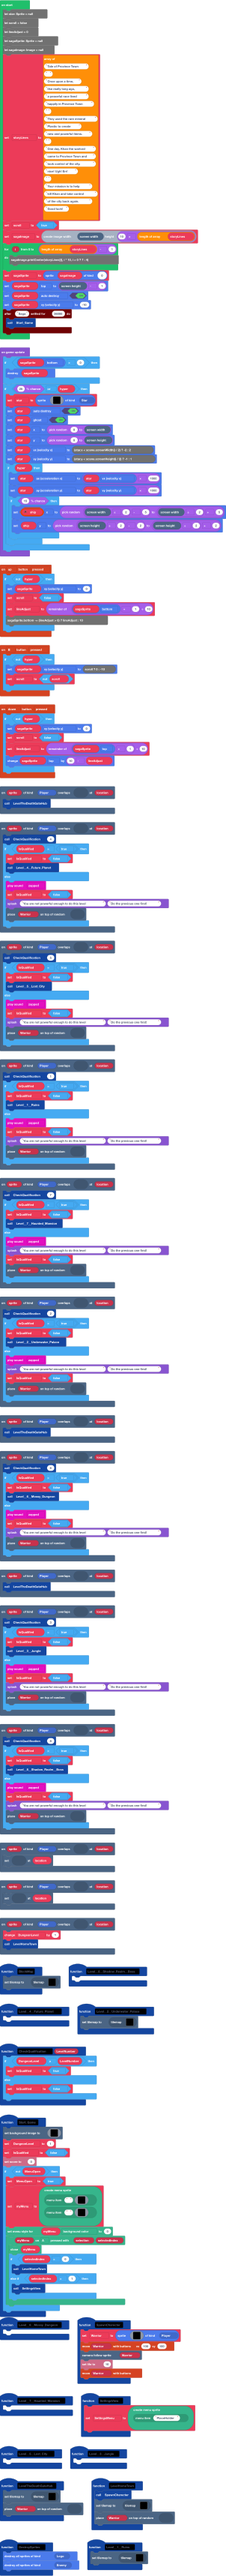
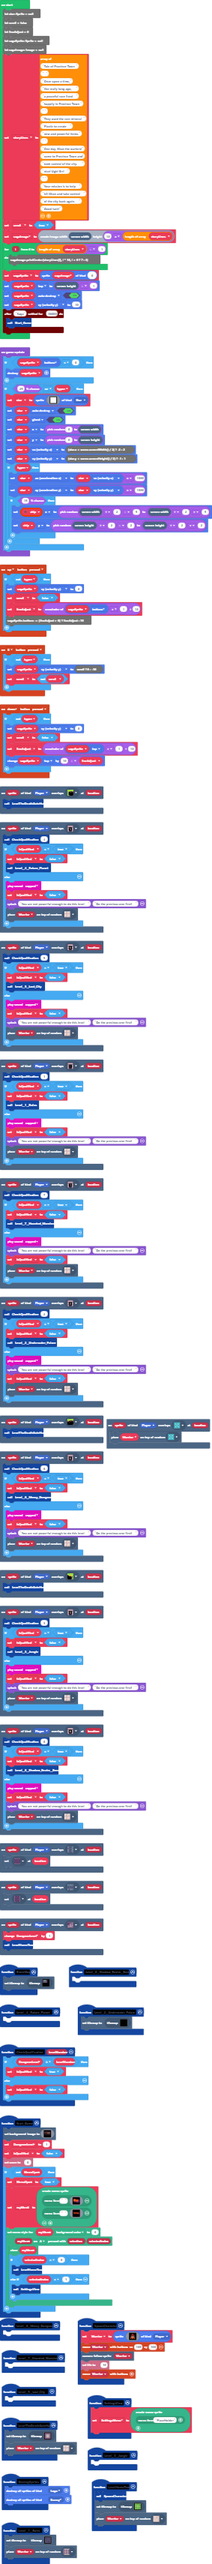
Update pxt.json, main.blocks, main.ts, tilemap.g.jres, tilemap.g.ts, images.g.jres, images.g.ts

diff --git a/tilemap.g.ts b/tilemap.g.ts
@@ -135,15 +135,7 @@ namespace myTiles {
     //% fixedInstance jres blockIdentity=images._tile
     export const tile67 = image.ofBuffer(hex``);
     //% fixedInstance jres blockIdentity=images._tile
-    export const tile62 = image.ofBuffer(hex``);
-    //% fixedInstance jres blockIdentity=images._tile
-    export const tile68 = image.ofBuffer(hex``);
-    //% fixedInstance jres blockIdentity=images._tile
-    export const tile69 = image.ofBuffer(hex``);
-    //% fixedInstance jres blockIdentity=images._tile
-    export const tile70 = image.ofBuffer(hex``);
-    //% fixedInstance jres blockIdentity=images._tile
-    export const tile71 = image.ofBuffer(hex``);
+    export const tile72 = image.ofBuffer(hex``);
 
     helpers._registerFactory("tilemap", function(name: string) {
         switch(helpers.stringTrim(name)) {
@@ -380,30 +372,6 @@ namespace myTiles {
 . . . . . . . . . . . . . . . . 
 . . . . . . . . . . . . . . . . 
 `, [myTiles.transparency16], TileScale.Sixteen);
-            case "level10":
[1 lines of base64/hex data omitted]
-222222222222222222222
-2.......22222.......2
-2.2...2.......22222.2
-2.2...222222222...2.2
-2.2...2..........22.2
-2.2...2....2........2
-2.222.2....2222222..2
-2...2.2..........2..2
-222.2.2222222222.2222
-....2..........2.....
-222.22222222222222222
-2...2....2..........2
-2.222.22.2.22222222.2
-2.2....2.2........2.2
-2.2.2..2.2........2.2
-2.2222.2.2........222
-2.2....2.2..........2
-2.2....2.2........2.2
-2.2222.2.2222222222.2
-2......2............2
-222222222222222222222
-`, [myTiles.transparency16,myTiles.tile15,myTiles.tile16,myTiles.tile17,myTiles.tile18,myTiles.tile19,myTiles.tile20,sprites.dungeon.stairEast,myTiles.tile29,myTiles.tile38,myTiles.tile40,myTiles.tile25,myTiles.tile26,myTiles.tile27,myTiles.tile28,myTiles.tile30,sprites.dungeon.darkGroundCenter,myTiles.tile39,myTiles.tile41,sprites.dungeon.darkGroundNorthEast0,sprites.dungeon.darkGroundNorthWest0,sprites.dungeon.darkGroundSouthWest0,sprites.dungeon.darkGroundNorth,sprites.dungeon.darkGroundSouth,myTiles.tile42,myTiles.tile44,myTiles.tile45,myTiles.tile36,sprites.dungeon.darkGroundSouthEast0,sprites.dungeon.darkGroundWest,sprites.dungeon.darkGroundEast,sprites.dungeon.collectibleInsignia,myTiles.tile32,myTiles.tile46,myTiles.tile47,sprites.dungeon.darkGroundSouthEast1,myTiles.tile48,myTiles.tile49,myTiles.tile43,myTiles.tile37,myTiles.tile50,myTiles.tile51], TileScale.Sixteen);
             case "level16":
             case "level16":return tiles.createTilemap(hex`1000100000000000000000000000000000000000000000000000000000000000000000000000000000000000000000000000000000000000000000000000000000000000000000000000000000000000000000000000000000000000000000000000000000000000000000000000000000000000000000000000000000000000000000000000000000000000000000000000000000000000000000000000000000000000000000000000000000000000000000000000000000000000000000000000000000000000000000000000000000000000000000000000000000000000000000000000000000000000000000000000000000000000000000000000000000000000`, img`
 . . . . . . . . . . . . . . . . 
@@ -508,8 +476,70 @@ namespace myTiles {
 .........................
 .........................
 `, [myTiles.transparency16,myTiles.tile53,myTiles.tile54], TileScale.Sixteen);
-            case "level1":
[1 lines of base64/hex data omitted]
+            case "level21":
+            case "level21":return tiles.createTilemap(hex`1000100000000000000000000000000000000000000000000000000000000000000000000000000000000000000000000000000000000000000000000000000000000000000000000000000000000000000000000000000000000000000000000000000000000000000000000000000000000000000000000000000000000000000000000000000000000000000000000000000000000000000000000000000000000000000000000000000000000000000000000000000000000000000000000000000000000000000000000000000000000000000000000000000000000000000000000000000000000000000000000000000000000000000000000000000000000000`, img`
+. . . . . . . . . . . . . . . . 
+. . . . . . . . . . . . . . . . 
+. . . . . . . . . . . . . . . . 
+. . . . . . . . . . . . . . . . 
+. . . . . . . . . . . . . . . . 
+. . . . . . . . . . . . . . . . 
+. . . . . . . . . . . . . . . . 
+. . . . . . . . . . . . . . . . 
+. . . . . . . . . . . . . . . . 
+. . . . . . . . . . . . . . . . 
+. . . . . . . . . . . . . . . . 
+. . . . . . . . . . . . . . . . 
+. . . . . . . . . . . . . . . . 
+. . . . . . . . . . . . . . . . 
+. . . . . . . . . . . . . . . . 
+. . . . . . . . . . . . . . . . 
+`, [myTiles.transparency16], TileScale.Sixteen);
+            case "level8":
[1 lines of base64/hex data omitted]
+. . . . . . . . . . . . . . . . 
+. . . . . . . . . . . . . . . . 
+. . . . . . . . . . . . . . . . 
+. . . . . . . . . . . . . . . . 
+. . . . . . . . . . . . . . . . 
+. . . . . . . . . . . . . . . . 
+. . . . . . . . . . . . . . . . 
+. . . . . . . . . . . . . . . . 
+. . . . . . . . . . . . . . . . 
+. . . . . . . . . . . . . . . . 
+. . . . . . . . . . . . . . . . 
+. . . . . . . . . . . . . . . . 
+. . . . . . . . . . . . . . . . 
+. . . . . . . . . . . . . . . . 
+. . . . . . . . . . . . . . . . 
+. . . . . . . . . . . . . . . . 
+`, [myTiles.transparency16,myTiles.tile13,myTiles.tile14,myTiles.tile15,myTiles.tile16,myTiles.tile17,myTiles.tile18,myTiles.tile19,myTiles.tile20,myTiles.tile21,myTiles.tile22,myTiles.tile23,myTiles.tile24,myTiles.tile25,myTiles.tile26,myTiles.tile27,myTiles.tile28,myTiles.tile29,myTiles.tile30,myTiles.tile53,myTiles.tile54,myTiles.tile52,myTiles.tile58,myTiles.tile59,myTiles.tile60], TileScale.Sixteen);
+            case "Tilemap_Ruins-Lvl1":
[1 lines of base64/hex data omitted]
+222222222222222222222
+2.......22222.......2
+2.2...2.......22222.2
+2.2...222222222...2.2
+2.2...2..........22.2
+2.2...2....2........2
+2.222.2....2222222..2
+2...2.2..........2..2
+222.2.2222222222.2222
+....2..........2.....
+222.22222222222222222
+2...2....2..........2
+2.222.22.2.22222222.2
+2.2....2.2........2.2
+2.2.2..2.2........2.2
+2.2222.2.2........222
+2.2....2.2..........2
+2.2....2.2........2.2
+2.2222.2.2222222222.2
+2......2............2
+222222222222222222222
+`, [myTiles.transparency16,myTiles.tile15,myTiles.tile16,myTiles.tile17,myTiles.tile18,myTiles.tile19,myTiles.tile20,sprites.dungeon.stairEast,myTiles.tile29,myTiles.tile38,myTiles.tile40,myTiles.tile25,myTiles.tile26,myTiles.tile27,myTiles.tile28,myTiles.tile30,sprites.dungeon.darkGroundCenter,myTiles.tile39,myTiles.tile41,sprites.dungeon.darkGroundNorthEast0,sprites.dungeon.darkGroundNorthWest0,sprites.dungeon.darkGroundSouthWest0,sprites.dungeon.darkGroundNorth,sprites.dungeon.darkGroundSouth,myTiles.tile42,myTiles.tile44,myTiles.tile45,myTiles.tile36,sprites.dungeon.darkGroundSouthEast0,sprites.dungeon.darkGroundWest,sprites.dungeon.darkGroundEast,sprites.dungeon.collectibleInsignia,myTiles.tile32,myTiles.tile46,myTiles.tile47,sprites.dungeon.darkGroundSouthEast1,myTiles.tile48,myTiles.tile49,myTiles.tile43,myTiles.tile37,myTiles.tile50,myTiles.tile51,myTiles.tile72], TileScale.Sixteen);
+            case "Tilemap_Hub":
[1 lines of base64/hex data omitted]
 . . . . . . . . . . . . . . . . . 
 . . . . . . . . . . . . . . . . . 
 . 2 2 . . . . . . . . . . 2 2 . . 
@@ -527,26 +557,7 @@ namespace myTiles {
 . . . . . . . . . . . 2 2 . . . . 
 . . . . . . . . . . . . . . . . . 
 . . . . . . . . . . . . . . . . . 
-`, [myTiles.transparency16,sprites.castle.tileGrass2,sprites.castle.tileGrass1,myTiles.tile3,myTiles.tile4,myTiles.tile2,sprites.castle.tilePath5,sprites.castle.tileGrass3,myTiles.tile55,myTiles.tile56,myTiles.tile57,sprites.castle.tilePath3,sprites.castle.tilePath1,sprites.castle.tilePath7,sprites.castle.tilePath9,myTiles.tile58,myTiles.tile63,myTiles.tile64,myTiles.tile65,myTiles.tile66,myTiles.tile67], TileScale.Sixteen);
-            case "level8":
[1 lines of base64/hex data omitted]
-. . . . . . . . . . . . . . . . 
-. . . . . . . . . . . . . . . . 
-. . . . . . . . . . . . . . . . 
-. . . . . . . . . . . . . . . . 
-. . . . . . . . . . . . . . . . 
-. . . . . . . . . . . . . . . . 
-. . . . . . . . . . . . . . . . 
-. . . . . . . . . . . . . . . . 
-. . . . . . . . . . . . . . . . 
-. . . . . . . . . . . . . . . . 
-. . . . . . . . . . . . . . . . 
-. . . . . . . . . . . . . . . . 
-. . . . . . . . . . . . . . . . 
-. . . . . . . . . . . . . . . . 
-. . . . . . . . . . . . . . . . 
-. . . . . . . . . . . . . . . . 
-`, [myTiles.transparency16,myTiles.tile13,myTiles.tile14,myTiles.tile15,myTiles.tile16,myTiles.tile17,myTiles.tile18,myTiles.tile19,myTiles.tile20,myTiles.tile21,myTiles.tile22,myTiles.tile23,myTiles.tile24,myTiles.tile25,myTiles.tile26,myTiles.tile27,myTiles.tile28,myTiles.tile29,myTiles.tile30,myTiles.tile53,myTiles.tile54,myTiles.tile52,myTiles.tile58,myTiles.tile59,myTiles.tile60,myTiles.tile61,myTiles.tile62,myTiles.tile68,myTiles.tile69,myTiles.tile70,myTiles.tile71], TileScale.Sixteen);
+`, [myTiles.transparency16,sprites.castle.tileGrass2,sprites.castle.tileGrass1,myTiles.tile3,myTiles.tile4,myTiles.tile2,sprites.castle.tilePath5,sprites.castle.tileGrass3,myTiles.tile55,myTiles.tile56,myTiles.tile57,sprites.castle.tilePath3,sprites.castle.tilePath1,sprites.castle.tilePath7,sprites.castle.tilePath9,myTiles.tile63,myTiles.tile64,myTiles.tile65,myTiles.tile66,myTiles.tile67], TileScale.Sixteen);
         }
         return null;
     })
@@ -686,16 +697,8 @@ namespace myTiles {
             case "tile66":return tile66;
             case "myTile44":
             case "tile67":return tile67;
-            case "myTile39":
-            case "tile62":return tile62;
-            case "myTile45":
-            case "tile68":return tile68;
-            case "myTile46":
-            case "tile69":return tile69;
-            case "myTile47":
-            case "tile70":return tile70;
-            case "myTile48":
-            case "tile71":return tile71;
+            case "Tiles_TeleportReceiver":
+            case "tile72":return tile72;
         }
         return null;
     })

diff --git a/main.ts b/main.ts
@@ -269,7 +269,7 @@ function Level__8__Shadow_Realm__Boss () {
 }
 function LevelHomeTown () {
     SpawnCharecter()
-    tiles.setCurrentTilemap(tilemap`level1`)
+    tiles.setCurrentTilemap(tilemap`Tilemap_Hub`)
     tiles.placeOnRandomTile(Warrior, assets.tile`HomeSpawn`)
 }
 function Level__4__Future_Planet () {
@@ -387,11 +387,15 @@ scene.onOverlapTile(SpriteKind.Player, assets.tile`RuinsTile - 2 - Horizontal - 
     tiles.setTileAt(location, assets.tile`myTile16`)
 })
 function Level__1__Ruins () {
-    tiles.setCurrentTilemap(tilemap`level10`)
+    tiles.setCurrentTilemap(tilemap`Tilemap_Ruins-Lvl1`)
+    tiles.placeOnRandomTile(Warrior, sprites.dungeon.stairEast)
 }
 scene.onOverlapTile(SpriteKind.Player, assets.tile`myTile35`, function (sprite, location) {
     DungeonLevel += 1
     LevelHomeTown()
+})
+scene.onOverlapTile(SpriteKind.Player, sprites.dungeon.collectibleInsignia, function (sprite, location) {
+    tiles.placeOnRandomTile(Warrior, sprites.dungeon.collectibleInsignia)
 })
 function LevelTheDeathGateHub () {
     tiles.setCurrentTilemap(tilemap`DeathGateHub`)

diff --git a/images.g.ts b/images.g.ts
@@ -1,0 +1,36 @@
+// Auto-generated code. Do not edit.
+namespace myImages {
+
+    helpers._registerFactory("image", function(name: string) {
+        switch(helpers.stringTrim(name)) {
+            case "image2":
+            case "Icon_Info":return img`
+. . . . . . . . . . . . . . . 
+. . . . . . . . . . . . . . . 
+. . . . . . . c . . . . . . . 
+. . . . . . . c . . . . . . . 
+. . . . . . c c c . . . . . . 
+. . . . . . c c c . . . . . . 
+. . . . . c c c c c . . . . . 
+. . . . . c c f c c . . . . . 
+. . . . c c c f c c c . . . . 
+. . . . c c c f c c c . . . . 
+. . . c c c c c c c c c . . . 
+. . . c c c c f c c c c . . . 
+. . c c c c c c c c c c c . . 
+. . . . . . . . . . . . . . . 
+. . . . . . . . . . . . . . . 
+`;
+        }
+        return null;
+    })
+
+    helpers._registerFactory("animation", function(name: string) {
+        switch(helpers.stringTrim(name)) {
+
+        }
+        return null;
+    })
+
+}
+// Auto-generated code. Do not edit.
